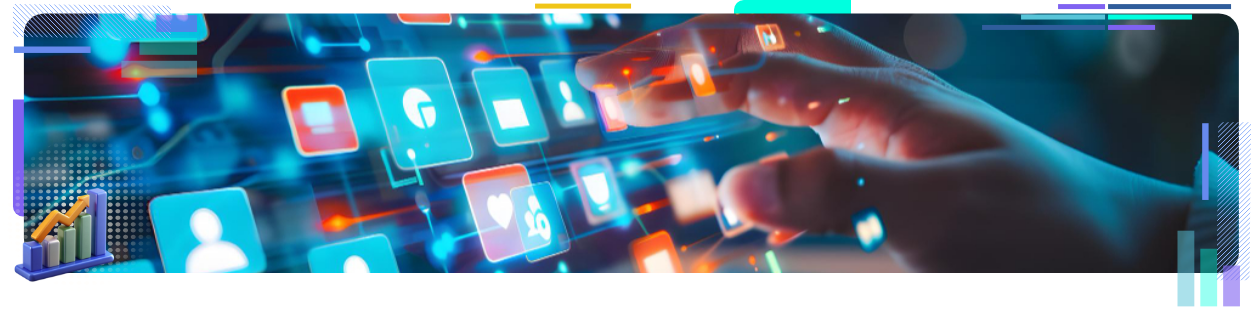
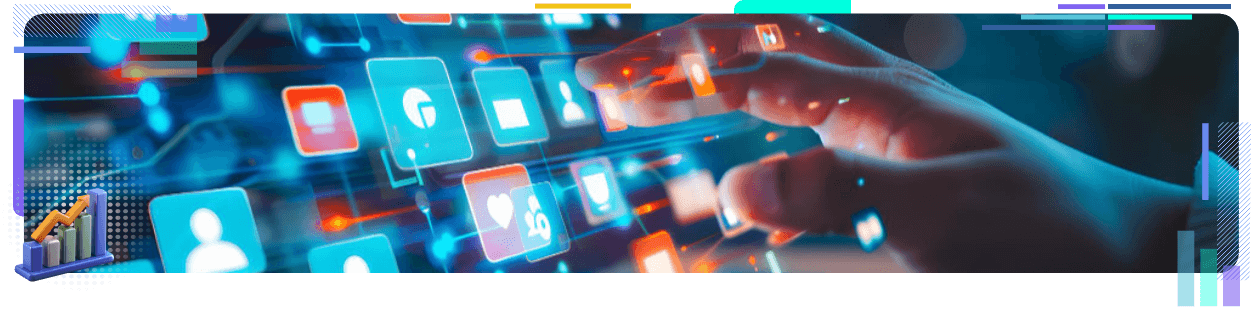
Tema 2

diff --git a/src/views/Tema2.vue b/src/views/Tema2.vue
@@ -17,30 +17,263 @@
     .bg-primario-p5.rounded-4.p-4.py-3
       p.mb-0 En este capítulo se analizarán los elementos que permiten comprender quiénes son los clientes potenciales y cómo pueden ser identificados dentro de un mercado determinado. 
 
+    separador
+    #t_2_1.titulo-segundo.color-acento-contenido(data-aos="flip-up")
+      h2 2.1 Concepto
+    
+    .bloque-texto-g.color-terciario.p-3.p-sm-4.p-md-5.mb-5
+      .bloque-texto-g__img(
+        :style="{'background-image': `url(${require_src('@/assets/curso/tema2/2.png')})`}"
+      )
+      .bloque-texto-g__texto.p-4
+        p.mb-0 Los clientes potenciales son personas, grupos u organizaciones que presentan características compatibles con la oferta de una empresa y poseen posibilidades de adquirir un producto o servicio. Su identificación constituye una actividad estratégica dentro del proceso comercial, ya que permite orientar los esfuerzos de mercadeo y ventas hacia aquellos segmentos con mayor probabilidad de generar resultados favorables para la organización. 
 
+    .row.justify-content-center.z-2
+      .col-xl-10.bg-primario-p5.rounded-4.p-4.p-lg-0
+        .row.justify-content-center.align-items-center
+          .col-lg-2.d-none.d-lg-block
+            figure
+              img.imgw-155.mb-4.mb-lg-0(src="@/assets/curso/tema7/7.png", alt="" data-aos="fade-up")
+          .col-lg-10
+            h5 Clave estratégica. 
+            p.mb-0 Identificar clientes potenciales no consiste en llegar a más personas, sino en reconocer aquellas que realmente representan una oportunidad comercial para la organización. 
 
+    separador
+    #t_2_2.titulo-segundo.color-acento-contenido(data-aos="flip-up")
+      h2 2.2 Tipos
 
+    .fullwidth-bg.fullwidth-bg--1
+    .row.justify-content-center.align-items-center.z-2.mb-5
+      .col-sm-8.col-lg-5
+        figure
+          img.mb-4.mb-lg-0(src="@/assets/curso/tema2/3.png", alt="" data-aos="zoom-in-down")
+      .col-lg-7
+        p Los clientes potenciales pueden clasificarse de acuerdo con diferentes criterios relacionados con su nivel de interés, grado de conocimiento de la organización o cercanía frente a una posible decisión de compra. Esta clasificación facilita la organización de las acciones comerciales y permite establecer prioridades dentro de los procesos de prospectación y seguimiento. 
+        .bg-primario-p5.p-4.rounded-4.mb-3.py-3
+          p.mb-0 La identificación de los diferentes tipos de clientes potenciales favorece la asignación eficiente de recursos y la definición de estrategias acordes con las características de cada grupo. Algunos prospectos requieren mayor información antes de tomar una decisión, mientras que otros presentan condiciones que permiten avanzar con mayor rapidez hacia una posible conversión comercial. 
+ 
+    .row.justify-content-center.z-2.mb-5
+      .col-xl-10
+        .titulo-sexto.color-acento-contenido.mb-4
+          h5 Tabla 2.
+          span Tipos generales de clientes potenciales
+        .tabla-a.color-secundario.tabla-a--text-left
+          table
+            thead
+              tr(style="background-color: #E4FFFB")
+                th Tipo
+                th(colspan="3") Características
+            tbody
+              tr(style="background-color: #FFFFFF")
+                td #[strong Prospecto inicial]
+                td(colspan="3") Ha manifestado interés por conocer la oferta comercial, pero aún requiere mayor información para evaluar alternativas.
+              tr(style="background-color: #E9EEF5")
+                td #[strong Prospecto calificado]
+                td(colspan="3") Cumple características compatibles con la oferta y presenta condiciones favorables para continuar el proceso comercial.
+              tr(style="background-color: #FFFFFF")
+                td #[strong Prospecto prioritario]
+                td(colspan="3") Reúne las condiciones que representan una alta oportunidad para avanzar hacia una posible conversión comercial.
 
+    separador
+    #t_2_3.titulo-segundo.color-acento-contenido(data-aos="flip-up")
+      h2 2.3 Características
 
+    .cajon.color-acento-contenido.p-4.mb-5
+      p.mb-0 Las características de los clientes potenciales corresponden al conjunto de atributos que permiten reconocer si una persona u organización presenta afinidad con la oferta comercial de una empresa. Estos atributos facilitan el análisis del mercado y constituyen una fuente de información para orientar los procesos de segmentación, perfilamiento comercial y prospectación.
 
+    .row.justify-content-center.z-2
+      .col-xl-10
+        .bg-primario-p5.p-4.rounded-4
+          .row.justify-content-center.align-items-center
+            .col-lg-2.d-none.d-lg-block
+              figure
+                img.imgw-145.mb-4.mb-lg-0(src="@/assets/curso/tema10/6.png", alt="" data-aos="zoom-in-down")
+            .col-lg-10
+              h5 Ejemplo aplicado. 
+              p.mb-0 Una empresa especializada en servicios de capacitación para organizaciones deseaba ampliar su base de clientes. Después de revisar la información de quienes habían contratado sus servicios durante los últimos años, encontró que la mayoría correspondía a empresas con procesos permanentes de formación, equipos de trabajo superiores a cincuenta colaboradores y responsables de talento humano interesados en fortalecer competencias laborales. Con base en este análisis redefinió sus acciones comerciales y mejoró significativamente la efectividad de las campañas dirigidas a nuevos prospectos.
 
+    separador
+    #t_2_4.titulo-segundo.color-acento-contenido(data-aos="flip-up")
+      h2 2.4 Necesidades
+    
+    img(data-aos="fade-up", src="@/assets/curso/tema2/4.png", alt="")
+    .row.justify-content-center.z-2
+      .col-lg-10.p-4(data-aos="fade-down")
+        div.banner-text.shadow.bg-secundario-s5.mb-3
+          p.mb-0 Las necesidades representan las situaciones o condiciones que impulsan al consumidor a buscar alternativas para satisfacer un requerimiento específico. No todas las necesidades se manifiestan de la misma manera. Algunas son expresadas directamente por los consumidores, mientras que otras requieren ser identificadas mediante el análisis de su comportamiento, intereses y contexto. Esta comprensión facilita el desarrollo de procesos de perfilamiento comercial más precisos y fortalece la construcción de relaciones orientadas a generar valor para el cliente.
 
+    .row.justify-content-center.z-2.mb-4
+      .col-xl-10
+        .bg-primario-p5.p-4.rounded-4
+          .row.justify-content-center.align-items-center
+            .col-lg-2.d-none.d-lg-block
+              figure
+                img.imgw-130.mb-4.mb-lg-0(src="@/assets/curso/tema2/stats.png", alt="" data-aos="zoom-in-down")
+            .col-lg-10
+              h5 En contexto. 
+              p Una empresa dedicada a la venta de mobiliario ergonómico identificó que muchos clientes buscaban mejorar las condiciones de trabajo desde casa. Más que adquirir una silla, los consumidores necesitaban comodidad, bienestar y prevención de problemas posturales. Comprender esta necesidad permitió fortalecer el enfoque de las campañas comerciales y mejorar los resultados de ventas. 
 
+    .row.justify-content-center.z-2
+      .col-xl-10
+        .bg-terciario-t5.p-4.rounded-4
+          .row.justify-content-center.align-items-center
+            .col-lg-2.d-none.d-lg-block
+              figure
+                img.imgw-155.mb-4.mb-lg-0(src="@/assets/curso/tema10/8.png", alt="" data-aos="zoom-in-down")
+            .col-lg-10
+              h5 Pregunta de reflexión 
+              p.mb-0 ¿Cómo podría una organización identificar las necesidades de sus clientes potenciales antes de diseñar una estrategia comercial? 
 
+    separador
+    #t_2_5.titulo-segundo.color-acento-contenido(data-aos="flip-up")
+      h2 2.5 Motivaciones
 
+    .bloque-texto-g.color-terciario.p-3.p-sm-4.p-md-5.mb-5
+      .bloque-texto-g__img(
+        :style="{'background-image': `url(${require_src('@/assets/curso/tema2/5.png')})`}"
+      )
+      .bloque-texto-g__texto.p-4
+        p.mb-0 Las motivaciones corresponden a los factores que impulsan a una persona a actuar para satisfacer una necesidad o alcanzar un objetivo determinado, pueden originarse en aspectos funcionales, emocionales o personales que influyen sobre la percepción del valor de un producto o servicio. Mientras algunos consumidores priorizan la calidad, otros buscan ahorro, comodidad, reconocimiento o seguridad. Identificar estos factores permite comprender que la decisión de compra trasciende las características técnicas de la oferta y responde a expectativas particulares de cada cliente. 
 
+    .fullwidth-bg.fullwidth-bg--1
+    .row.justify-content-center.z-2.mb-5
+      .col-xl-10
+        .bg-contenido-a10.p-4.rounded-4
+          .row.justify-content-center.align-items-center
+            .col-lg-2.d-none.d-lg-block
+              figure
+                img.imgw-130.mb-4.mb-lg-0(src="@/assets/curso/tema2/stats.png", alt="" data-aos="zoom-in-down")
+            .col-lg-10
+              h5 En contexto. 
+              p Una empresa dedicada a la comercialización de bicicletas eléctricas descubrió que muchos compradores no estaban motivados únicamente por reducir tiempos de desplazamiento. Un número importante valoraba la posibilidad de contribuir con el cuidado del medio ambiente y mejorar su calidad de vida mediante un medio de transporte sostenible. Esta información permitió fortalecer el mensaje comercial y conectar mejor con las expectativas de sus clientes. 
 
+    .row.justify-content-center.z-2.mb-5
+      .col-xl-10
+        .titulo-sexto.color-acento-contenido.mb-4
+          h5 Tabla 3.
+          span Motivaciones que influyen en los clientes potenciales
+        .tabla-a.color-secundario.tabla-a--text-left
+          table
+            thead
+              tr(style="background-color: #E4FFFB")
+                th Motivación 
+                th(colspan="3") Descripción
+            tbody
+              tr(style="background-color: #FFFFFF")
+                td #[strong Mejorar una condición]
+                td(colspan="3") El consumidor busca resolver una situación que afecta su bienestar o desempeño cotidiano. 
+              tr(style="background-color: #E9EEF5")
+                td #[strong Alcanzar un objetivo]
+                td(colspan="3") La decisión de compra está orientada al logro de una meta personal, profesional u organizacional. 
+              tr(style="background-color: #FFFFFF")
+                td #[strong Obtener beneficios]
+                td(colspan="3") El cliente espera recibir ventajas funcionales, económicas o de experiencia mediante la adquisición del producto. 
+              tr(style="background-color: #E9EEF5")
+                td #[strong Reducir una dificultad]
+                td(colspan="3") La compra representa una alternativa para disminuir problemas o limitaciones presentes en su contexto. 
 
+    .row.justify-content-center.z-2
+      .col-xl-10.bg-terciario-t5.rounded-4.p-4.p-lg-0
+        .row.justify-content-center.align-items-center
+          .col-lg-2.d-none.d-lg-block
+            figure
+              img.imgw-155.mb-4.mb-lg-0(src="@/assets/curso/tema7/7.png", alt="" data-aos="fade-up")
+          .col-lg-10
+            h5 Clave estratégica. 
+            p.mb-0 Las organizaciones generan mayor valor cuando comprenden las razones que impulsan la decisión de compra y no únicamente las necesidades que manifiestan sus clientes. 
 
+    separador
+    #t_2_6.titulo-segundo.color-acento-contenido(data-aos="flip-up")
+      h2 2.6 Intereses
+    
+    .bloque-texto-g.color-secundario.p-3.p-sm-4.p-md-5.mb-5
+      .bloque-texto-g__img(
+        :style="{'background-image': `url(${require_src('@/assets/curso/tema2/6.png')})`}"
+      )
+      .bloque-texto-g__texto.p-4
+        p.mb-0 Los intereses representan las preferencias, afinidades o temas hacia los cuales los consumidores orientan su atención de manera permanente o temporal. Estos intereses influyen en la forma como las personas buscan información, valoran alternativas y seleccionan productos o servicios, convirtiéndose en un elemento importante para comprender el comportamiento del cliente potencial.
 
+    .row.justify-content-center.z-2.mb-5
+      .col-xl-10
+        .bg-primario-p5.p-4.rounded-4
+          .row.justify-content-center.align-items-center
+            .col-lg-2.d-none.d-lg-block
+              figure
+                img.imgw-145.mb-4.mb-lg-0(src="@/assets/curso/tema10/6.png", alt="" data-aos="zoom-in-down")
+            .col-lg-10
+              h5 Ejemplo aplicado. 
+              p Una organización especializada en la venta de instrumentos musicales deseaba ampliar su base de clientes. Después de analizar la información recopilada durante eventos y ferias comerciales identificó que una parte importante de los visitantes mostraba interés por la producción musical digital y el aprendizaje autodidacta. 
+              p.mb-0 La empresa reorganizó su oferta, incorporó nuevos productos y desarrolló contenidos dirigidos a estos intereses. Como resultado, logró atraer nuevos clientes potenciales y fortalecer su posicionamiento en este segmento del mercado. 
 
+    .fullwidth-bg.fullwidth-bg--3
+    .row.justify-content-center.align-items-center.z-2
+      .col-lg-10.col-xl-8
+        .titulo-sexto.color-acento-contenido.mb-4
+          h5 Figura 2.
+          span Intereses que aportan al análisis de clientes potenciales
+        img.mb-2.d-sm-none(data-aos="fade-up", src="@/assets/curso/tema2/7-mob.png", alt="La figura 2 describe los intereses que aportan al análisis de clientes potenciales. Éstos intereses se resumen en actividades personales, preferencias de consumo, estilos de vida y temas de información.")
+        img.mb-2.d-none.d-sm-block(data-aos="fade-up", src="@/assets/curso/tema2/7.png", alt="La figura 2 describe los intereses que aportan al análisis de clientes potenciales. Éstos intereses se resumen en actividades personales, preferencias de consumo, estilos de vida y temas de información.")
 
+    separador
+    #t_2_7.titulo-segundo.color-acento-contenido(data-aos="flip-up")
+      h2 2.7 Comportamiento de compra
+    
+    .row.justify-content-center.align-items-center.mb-4.mb-lg-5
+      .col-sm-6.col-lg-3
+        figure
+          img.mb-4.mb-lg-0(src="@/assets/curso/tema2/8.png", alt="" data-aos="zoom-in-down")
+      .col-lg-9
+        p El comportamiento de compra corresponde al conjunto de acciones y decisiones que realiza un cliente potencial antes, durante y después de adquirir un producto o servicio, comprender este comportamiento permite identificar cómo interactúan las necesidades, motivaciones, intereses y demás características del consumidor para orientar las estrategias comerciales hacia públicos con mayor probabilidad de conversión. 
+        .bg-secundario-s10.p-4.rounded-4.mb-3.py-3
+          p.mb-0 El estudio del comportamiento de compra constituye un insumo fundamental para los procesos de segmentación y perfilamiento comercial. Cuando las organizaciones comprenden cómo actúan sus clientes potenciales frente a diferentes situaciones de compra, pueden fortalecer sus estrategias comerciales, optimizar la prospectación y establecer relaciones más efectivas con los consumidores. 
 
+    .fullwidth-bg.fullwidth-bg--1
+    .row.justify-content-center.z-2.mb-5
+      .col-xl-10
+        .bg-terciario-t10.p-4.rounded-4
+          .row.justify-content-center.align-items-center
+            .col-lg-2.d-none.d-lg-block
+              figure
+                img.imgw-155.mb-4.mb-lg-0(src="@/assets/curso/tema7/9.png", alt="" data-aos="zoom-in-down")
+            .col-lg-10
+              h5 En contexto. 
+              p.mb-0 Una empresa dedicada a la comercialización de electrodomésticos observó que muchos clientes consultaban previamente reseñas, comparaban precios y analizaban características técnicas antes de realizar una compra. A partir de este comportamiento fortaleció la información disponible en su sitio web, incorporó comparativos de productos y mejoró los canales de atención virtual, facilitando el proceso de decisión del consumidor. 
 
+    .row.justify-content-center.z-2.mb-5
+      .col-xl-10
+        .titulo-sexto.color-acento-contenido.mb-4
+          h5 Tabla 4.
+          span Aspectos que intervienen en el comportamiento de compra
+        .tabla-a.color-secundario.tabla-a--text-left
+          table
+            thead
+              tr(style="background-color: #E4FFFB")
+                th Aspecto 
+                th(colspan="3") Descripción
+            tbody
+              tr(style="background-color: #FFFFFF")
+                td #[strong Búsqueda de información]
+                td(colspan="3") El consumidor recopila información para comprender las alternativas disponibles antes de decidir una compra.  
+              tr(style="background-color: #E9EEF5")
+                td #[strong Comparación de alternativas]
+                td(colspan="3") Evalúa diferentes opciones considerando beneficios, características y condiciones de cada propuesta comercial. 
+              tr(style="background-color: #FFFFFF")
+                td #[strong Decisión de adquisición]
+                td(colspan="3") Selecciona la alternativa que mejor responde a sus necesidades, intereses y expectativas particulares. 
+              tr(style="background-color: #E9EEF5")
+                td #[strong Evaluación de la experiencia]
+                td(colspan="3") Valora los resultados obtenidos después de la compra e influye en futuras decisiones comerciales. 
 
-
-
-
+    .row.justify-content-center.mb-4.z-2
+      .col-xl-10
+        .bg-contenido-a10.p-4.rounded-4
+          .row.justify-content-center.align-items-center
+            .col-lg-2.d-none.d-lg-block
+              figure
+                img.imgw-155.mb-4.mb-lg-0(src="@/assets/curso/tema7/11.png", alt="" data-aos="zoom-in-down")
+            .col-lg-10
+              h5 Reflexión del capítulo.  
+              p.mb-0 Conocer al cliente implica una gran responsabilidad. La información obtenida durante los procesos comerciales debe utilizarse con honestidad, respeto y sentido ético, procurando generar valor para las personas y construir relaciones de confianza que beneficien tanto al consumidor como a la organización. 
 
       
 </template>

diff --git a/src/views/Tema3.vue b/src/views/Tema3.vue
@@ -256,24 +256,6 @@
               h5 Reflexión del capítulo.  
               p.mb-0 La clasificación de las personas nunca debe convertirse en una forma de exclusión. En el ámbito comercial, categorizar clientes significa organizar información para comprender mejor sus necesidades, actuando siempre con objetividad, respeto y responsabilidad en el manejo de los datos.
 
-
-
-
-
-
-
-
-
-
-
-
-
-
-
-
-
- 
-
 </template>
 
 <script>

diff --git a/src/styles/basicos/_tipografias.sass b/src/styles/basicos/_tipografias.sass
@@ -205,7 +205,7 @@
     &:before
       background-color: $color-secundario
   &.color-acento-contenido
-    background-color: color.adjust($color-acento-contenido, $lightness: 30%)
+    background-color: $color-acento-contenido-a5
     &:before
       background-color: $color-acento-contenido
   &.color-acento-botones

diff --git a/src/styles/_custom.sass b/src/styles/_custom.sass
@@ -160,6 +160,9 @@ figcaption, table caption
 .imgw-125
   width: 125px
   margin: 0 auto
+.imgw-130
+  width: 130px
+  margin: 0 auto
 .imgw-145
   width: 145px
   margin: 0 auto
